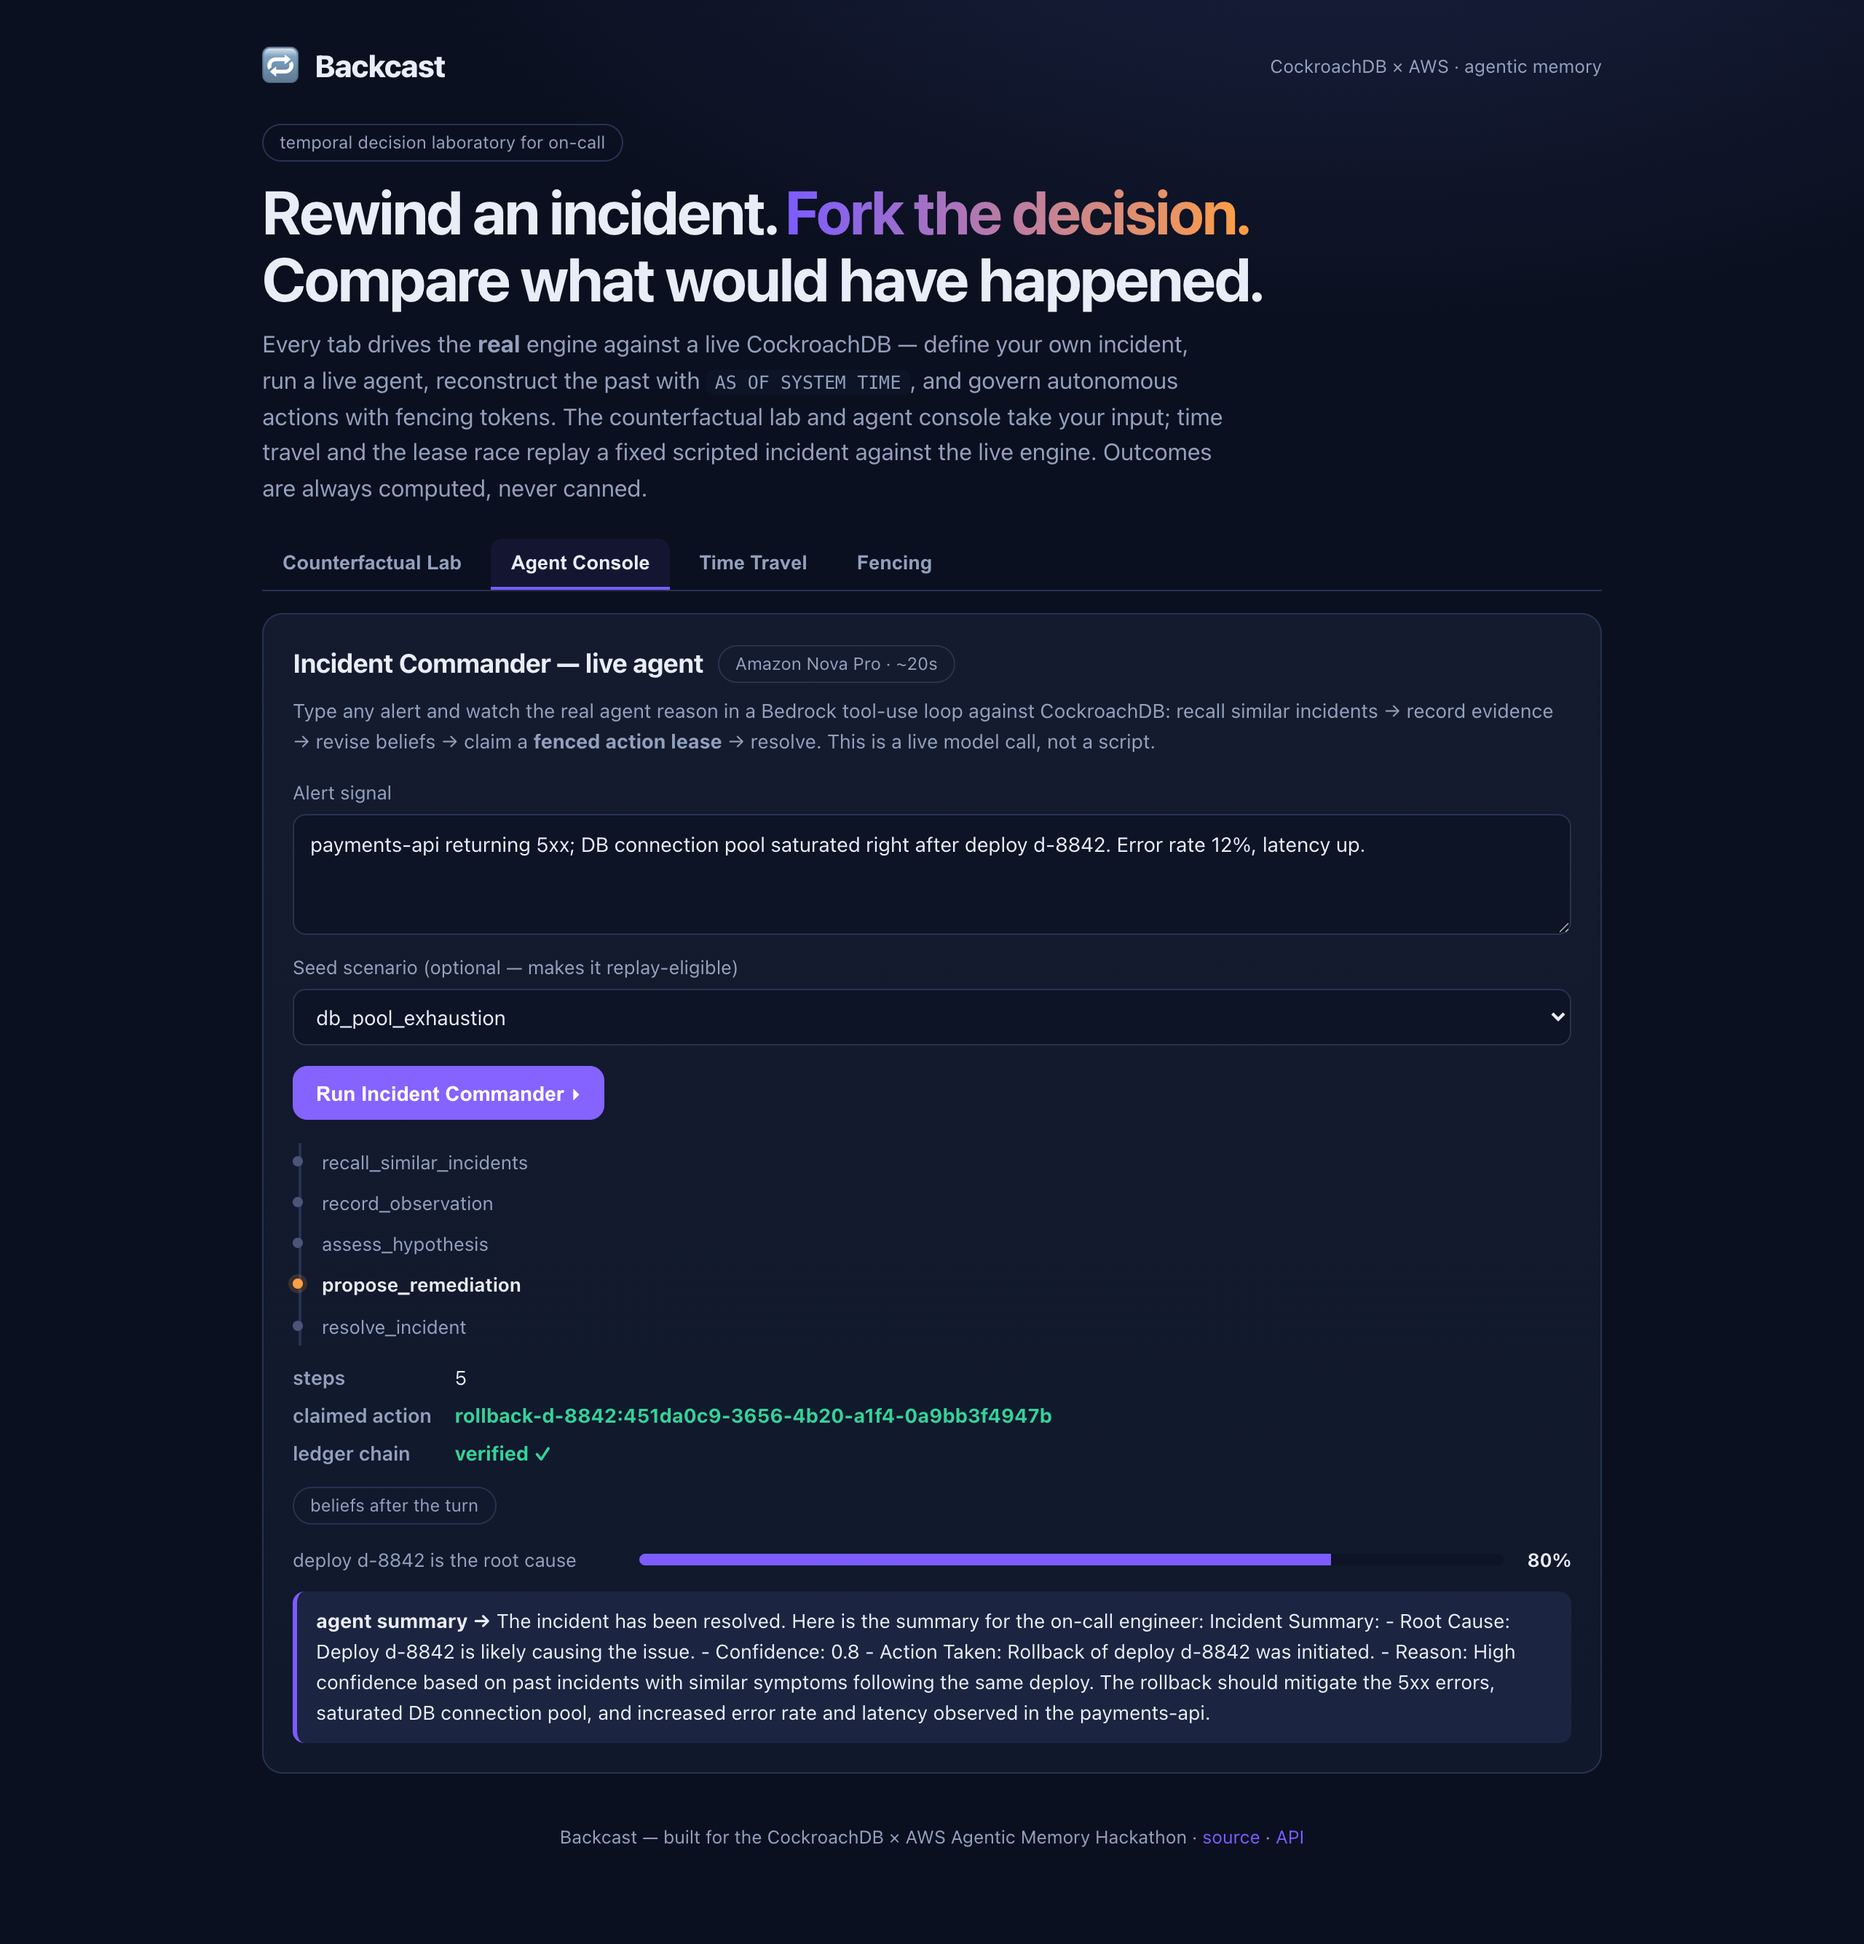
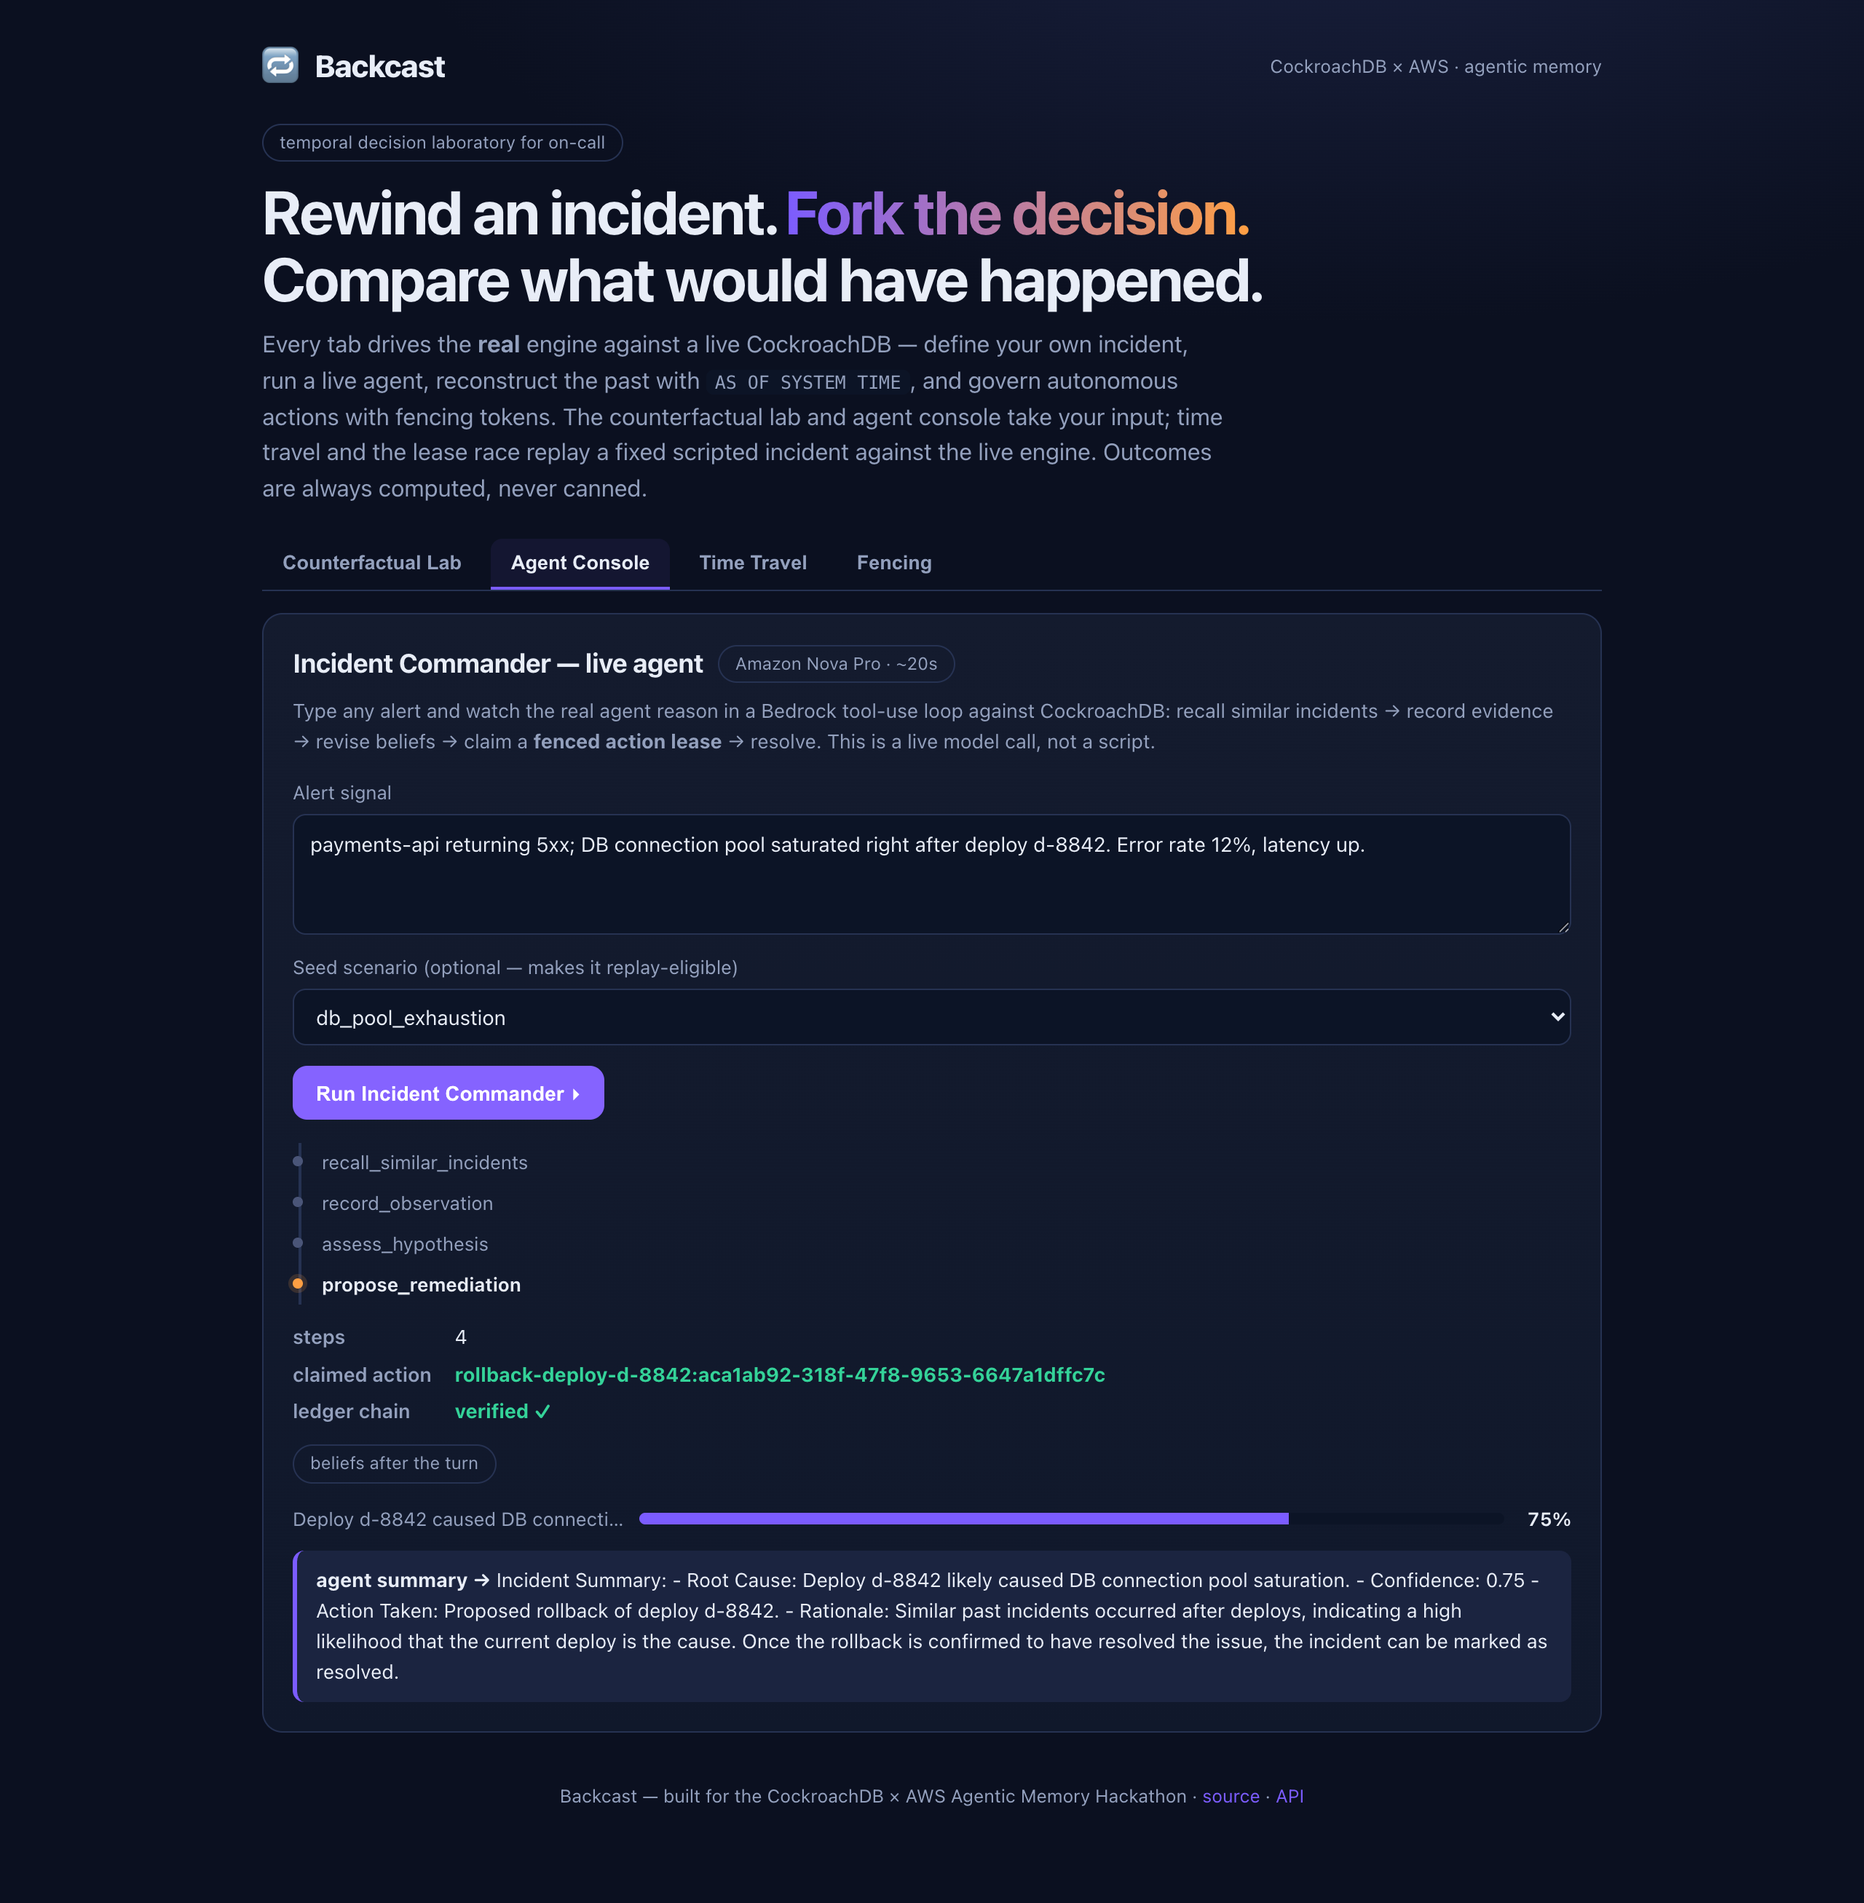
chore: make test-endpoints.sh executable; screenshots from the deployed stack
test-endpoints.sh was mode 644, so the `./test-endpoints.sh` invocation the README
gives under "Verify it" failed with "permission denied" before running a single
check. Found by actually running it as documented rather than via `bash`.

Screenshots re-captured against the deployed stack now that it runs this code, so
the README shows production rather than a local cluster — including the
reconstructed fork state and the cleaned agent summary. Caption updated to match.

diff --git a/README.md b/README.md
@@ -25,8 +25,8 @@
 </p>
 
 <p align="center">
-  <em>Every screenshot is a real run against a live CockroachDB cluster — no mockups. The agent
-  console is a live Amazon Nova Pro call on the deployed Lambda.</em>
+  <em>Every screenshot is a real run against the <b>deployed</b> stack — the AWS Lambdas above, a
+  CockroachDB Cloud cluster, live Amazon Nova Pro and Titan v2. No mockups, no seeded output.</em>
 </p>
 
 <table>
